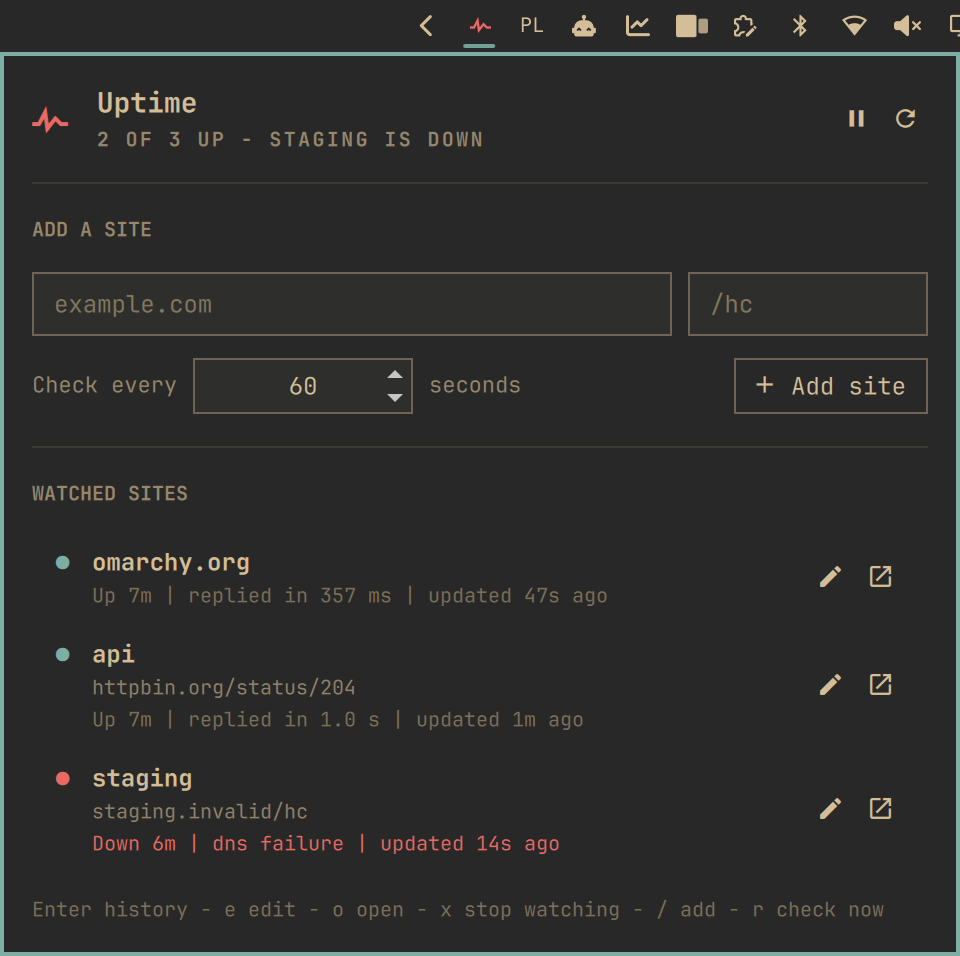
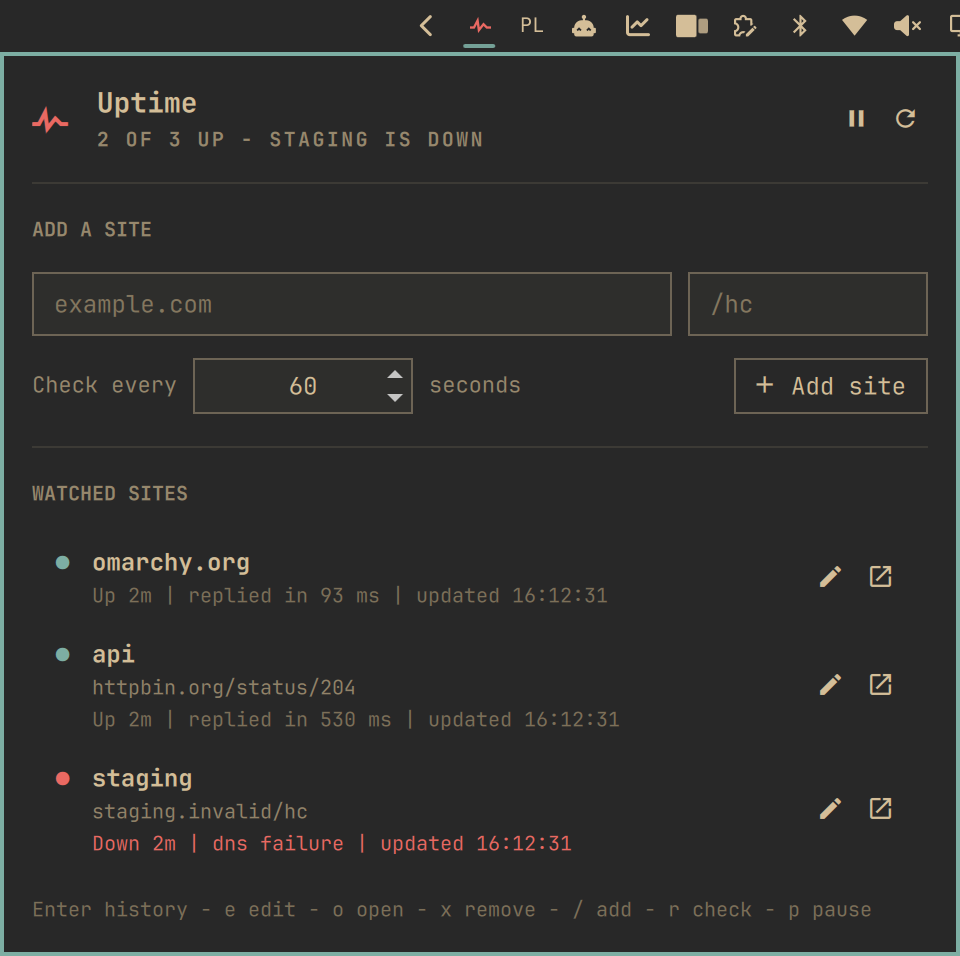
Show when the last request happened, not how long ago
"updated just now" was still wrong, and this time the cause was the clock
itself rather than the wording. The panel's `nowMs` was a binding whose body
read `revision` and `tick` as bare statements, on the assumption that reading
them registers a dependency. Nothing consumes their values, so QML is free to
discard those statements - and did. The binding evaluated once and every row
froze at the time the panel first drew. A capture taken with the reading 11
seconds old still read "just now".

Two changes. The clock is now assigned rather than derived, from a one-second
timer while the popup is open and on every revision change, so there is no
dependency left to infer. And the last-request part of the line is a wall-clock
time:

    Up 5m | replied in 200 ms | updated 16:03:47

An absolute time needs no clock of its own to stay true, which is the whole
class of bug this keeps running into. Verified on one open panel 62s apart:
"Down 35s | ... | updated 16:04:20" became "Down 1m | ... | updated 16:04:55" -
the duration ticking proves the clock, the timestamp changing only on a real
check proves it is the request time.

formatAgo is gone with its last caller. Screenshots redone, and the keyboard
hint shortened so it stops wrapping onto a second line.

diff --git a/tests/model.test.js b/tests/model.test.js
@@ -318,13 +318,10 @@ const stampAt = new Date(2026, 7, 28, 9, 5).getTime()
 assert.strictEqual(Model.formatStamp(stampAt), "28 Aug 09:05")
 assert.strictEqual(Model.formatStamp(0), "")
 
-assert.strictEqual(Model.formatAgo(0, now), "never")
-assert.strictEqual(Model.formatAgo(now - 5000, now), "just now")
-// A reading past the ten second window reports its real age rather than
-// hiding most of a 60s check interval behind "just now"
-assert.strictEqual(Model.formatAgo(now - 24_000, now), "24s ago")
-assert.strictEqual(Model.formatAgo(now - 59_000, now), "59s ago")
-assert.strictEqual(Model.formatAgo(now - 300_000, now), "5m ago")
+// Built from local-time parts so the assertion holds in any timezone
+assert.strictEqual(Model.formatClock(new Date(2026, 7, 30, 15, 42, 3).getTime()), "15:42:03")
+assert.strictEqual(Model.formatClock(new Date(2026, 7, 30, 9, 5, 0).getTime()), "09:05:00")
+assert.strictEqual(Model.formatClock(0), "")
 
 assert.strictEqual(Model.latencyLabel({ latencyMs: 84 }), "84 ms")
 assert.strictEqual(Model.latencyLabel({ latencyMs: 2400 }), "2.4 s")
@@ -335,38 +332,36 @@ assert.strictEqual(Model.failureLabel({ code: "000", reason: "timeout" }), "time
 assert.strictEqual(Model.failureLabel({ code: "000", reason: "" }), "no answer")
 
 // Every line names what each number is, and says how old the reading is.
+// A fixed local wall-clock instant, so the expected strings are stable
+const readAt = new Date(2026, 7, 30, 15, 42, 3).getTime()
+
 const downRecord = Object.assign(Model.emptyRecord(), {
-  state: "down", since: now - 300_000, code: "503", checkedAt: now - 8000
+  state: "down", since: now - 300_000, code: "503", checkedAt: readAt
 })
 assert.strictEqual(Model.statusLine(watched[0], downRecord, now),
-  "Down 5m | HTTP 503 | updated just now")
-assert.strictEqual(
-  Model.statusLine(watched[0], Object.assign({}, downRecord, { checkedAt: now - 30_000 }), now),
-  "Down 5m | HTTP 503 | updated 30s ago")
+  "Down 5m | HTTP 503 | updated 15:42:03")
 
 const upRecord = Object.assign(Model.emptyRecord(), {
-  state: "up", since: now - 7_200_000, latencyMs: 84, checkedAt: now - 120_000
+  state: "up", since: now - 7_200_000, latencyMs: 84, checkedAt: readAt
 })
 assert.strictEqual(Model.statusLine(watched[0], upRecord, now),
-  "Up 2h | replied in 84 ms | updated 2m ago")
+  "Up 2h | replied in 84 ms | updated 15:42:03")
 
-// The regression this format exists for: a reading that is minutes old must
-// say so. The panel used to derive its clock from the checks themselves, so
-// every row claimed "just now" however stale it really was.
-const stale = Object.assign({}, upRecord, { checkedAt: now - 45 * 60_000 })
-assert.strictEqual(Model.statusLine(watched[0], stale, now),
-  "Up 2h | replied in 84 ms | updated 45m ago")
-assert.strictEqual(
-  Model.statusLine(watched[0], Object.assign({}, upRecord, { checkedAt: now - 3_600_000 }), now),
-  "Up 2h | replied in 84 ms | updated 1h ago")
+// The regression this part of the line exists for. It used to be a relative
+// age driven by the panel's own clock, and when that clock stopped advancing
+// every row claimed to have been updated "just now" forever. A wall-clock
+// time cannot go stale: the same reading reads the same however long the
+// panel has been sitting open.
+assert.strictEqual(Model.statusLine(watched[0], upRecord, now + 45 * 60_000),
+  "Up 2h 45m | replied in 84 ms | updated 15:42:03")
 
 // Failing right now, but not yet down: that outranks the last good latency
 assert.strictEqual(
   Model.statusLine(watched[0], Object.assign({}, upRecord, { failures: 1 }), now),
-  "Up 2h | 1 failing check | updated 2m ago")
+  "Up 2h | 1 failing check | updated 15:42:03")
 assert.strictEqual(
   Model.statusLine(watched[0], Object.assign({}, upRecord, { failures: 2 }), now),
-  "Up 2h | 2 failing checks | updated 2m ago")
+  "Up 2h | 2 failing checks | updated 15:42:03")
 
 // A record with no check behind it says nothing about when it was read
 assert.strictEqual(

diff --git a/Model.js b/Model.js
@@ -597,16 +597,14 @@ function formatStamp(epochMs) {
   return pad(at.getDate()) + " " + MONTHS[at.getMonth()] + " " + pad(at.getHours()) + ":" + pad(at.getMinutes())
 }
 
-// "just now" covers ten seconds, not the three quarters of a minute a rounder
-// threshold would: sites are commonly checked every 60s, and a window that
-// wide would label almost every reading's whole life "just now" - which is
-// precisely the staleness this is here to expose.
-function formatAgo(epochMs, nowMs) {
+// The wall-clock time a reading was taken. An absolute time needs no clock of
+// its own to stay true, which a relative age does - and getting that wrong is
+// how every row came to claim it had been updated "just now" forever.
+function formatClock(epochMs) {
   var value = toInt(epochMs, 0)
-  if (value <= 0) return "never"
-  var elapsed = Math.max(0, nowMs - value)
-  if (elapsed < 10000) return "just now"
-  return formatDuration(elapsed) + " ago"
+  if (value <= 0) return ""
+  var at = new Date(value)
+  return pad(at.getHours()) + ":" + pad(at.getMinutes()) + ":" + pad(at.getSeconds())
 }
 
 function latencyLabel(record) {
@@ -652,7 +650,7 @@ function statusLine(site, record, nowMs) {
 
   // How old the reading is belongs on every line: "Up 2h" from a check that
   // last ran an hour ago is a different claim from the same line a second old.
-  if (current.checkedAt > 0) parts.push("updated " + formatAgo(current.checkedAt, nowMs))
+  if (current.checkedAt > 0) parts.push("updated " + formatClock(current.checkedAt))
   return parts.join(" | ")
 }
 
@@ -738,7 +736,7 @@ if (typeof module !== "undefined") {
     summary: summary,
     formatDuration: formatDuration,
     formatStamp: formatStamp,
-    formatAgo: formatAgo,
+    formatClock: formatClock,
     latencyLabel: latencyLabel,
     failureLabel: failureLabel,
     statusLine: statusLine,

diff --git a/Panel.qml b/Panel.qml
@@ -81,23 +81,23 @@ Panel {
   readonly property real dotColumn: Style.space(18)
   readonly property real detailIndent: Style.spacing.rowPaddingX + dotColumn
 
-  // One clock the whole panel shares. `revision` alone is not enough to drive
-  // it: sites are checked in one batch, so every moment the panel re-rendered
-  // was a moment every site had just been checked, and every row claimed to be
-  // "updated just now" however stale the reading really was. `tick` advances on
-  // its own while the panel is open, so the ages on screen actually age.
-  property int tick: 0
-  readonly property double nowMs: {
-    root.revision
-    root.tick
-    return Date.now()
-  }
+  // The panel's clock, assigned rather than derived. It used to be a binding
+  // whose body read `revision` and `tick` as bare statements to register them
+  // as dependencies - which QML is free to discard, since nothing consumes
+  // their values. It did, the binding never re-evaluated, and every row froze
+  // at whatever time the panel first drew. Assigning leaves nothing to infer.
+  property double nowMs: Date.now()
+
+  function markTime() { root.nowMs = Date.now() }
+
+  onRevisionChanged: root.markTime()
+  onOpenedChanged: if (root.opened) root.markTime()
 
   Timer {
-    interval: 5000
+    interval: 1000
     repeat: true
     running: root.opened
-    onTriggered: root.tick = root.tick + 1
+    onTriggered: root.markTime()
   }
 
   function colorForState(state) {
@@ -1088,7 +1088,7 @@ Panel {
           }
 
           Text {
-            text: "Enter history - e edit - o open - x stop watching - / add - r check now - p pause"
+            text: "Enter history - e edit - o open - x remove - / add - r check - p pause"
             color: root.faint
             font.family: root.fontFamily
             font.pixelSize: Style.font.caption
